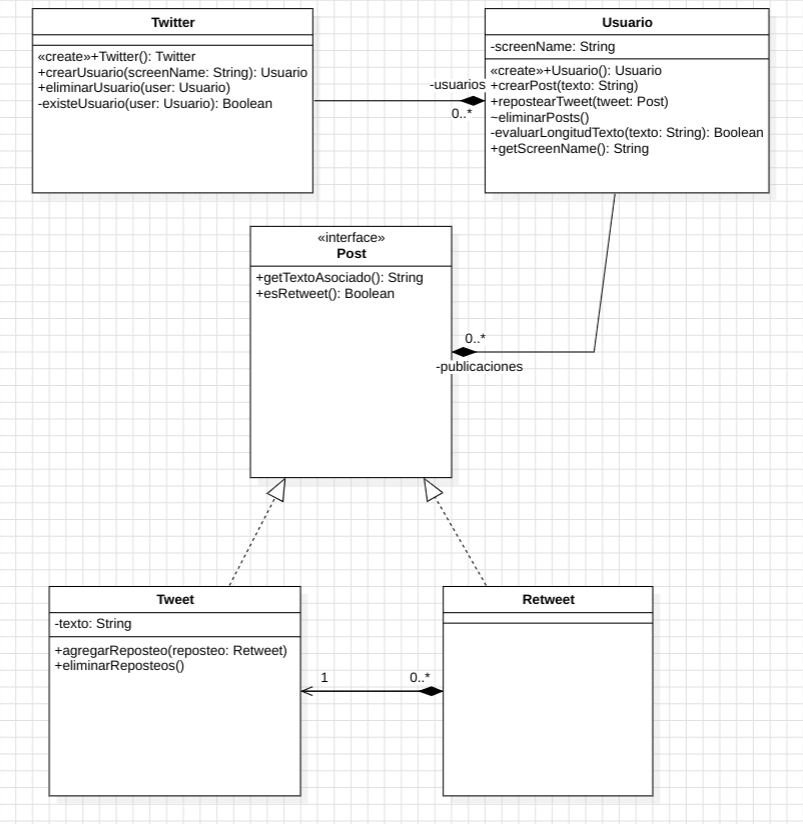
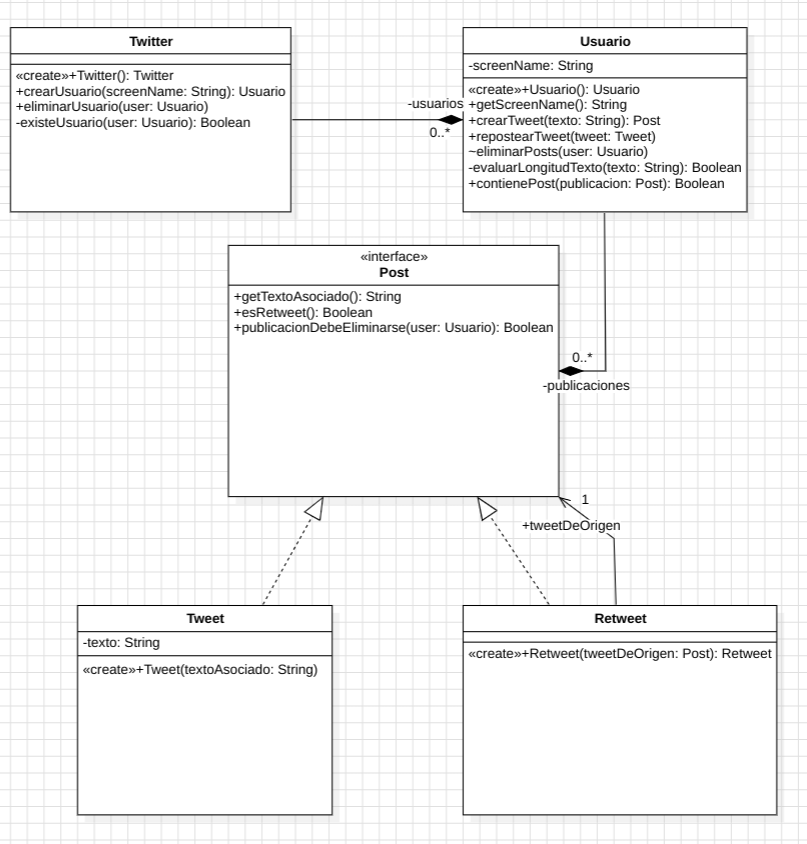
Cambios en ejercicio 1

diff --git a/ejercicio1/src/main/java/io/github/Usuario.java b/ejercicio1/src/main/java/io/github/Usuario.java
@@ -32,13 +32,17 @@ public class Usuario {
     public void repostearTweet(Tweet tweet) {
         Retweet retweet = new Retweet(tweet);
         this.publicaciones.add(retweet);
-        tweet.agregarReposteo(retweet);
     }
 
-    void eliminarPosts() {
-        this.publicaciones.stream()
-                .filter(p -> !p.esRetweet())
-                .forEach(t -> ((Tweet) t).eliminarReposteos()); // Downcasting seguro por booleano
-        this.publicaciones.clear();
+    public boolean contienePost(Post publicacion) {
+        return this.publicaciones.contains(publicacion);
+    }
+
+    void eliminarPosts(Usuario user) {
+        for(Post publicacion: this.publicaciones) {
+            if(publicacion.publicacionDebeEliminarse(user)) {
+                this.publicaciones.remove(publicacion);
+            }
+        }
     }
 }

diff --git a/ejercicio1/src/main/java/io/github/Tweet.java b/ejercicio1/src/main/java/io/github/Tweet.java
@@ -4,7 +4,6 @@ import java.util.List;
 
 public class Tweet implements Post{
     private String textoAsociado;
-    private List<Retweet> retweetsAlPosteo;
 
     public Tweet(String textoAsociado) {
         this.textoAsociado = textoAsociado;
@@ -20,12 +19,9 @@ public class Tweet implements Post{
         return false;
     }
 
-    public void agregarReposteo(Retweet reposteo) {
-        this.retweetsAlPosteo.add(reposteo);
-    }
-
-    public void eliminarReposteos() {
-        this.retweetsAlPosteo.clear();
+    @Override
+    public boolean publicacionDebeEliminarse(Usuario user) {
+        return user.contienePost(this);
     }
 
 }

diff --git a/ejercicio1/src/main/java/io/github/Retweet.java b/ejercicio1/src/main/java/io/github/Retweet.java
@@ -17,4 +17,14 @@ public class Retweet implements Post{
         return true;
     }
 
+    @Override
+    public boolean publicacionDebeEliminarse(Usuario user) {
+        if(this.esRetweet()) {
+            return this.tweetDeOrigen.publicacionDebeEliminarse(user);
+        } else {
+            return user.contienePost(this);
+        }
+
+    }
+
 }

diff --git a/ejercicio1/src/main/java/io/github/Twitter.java b/ejercicio1/src/main/java/io/github/Twitter.java
@@ -22,7 +22,7 @@ public class Twitter {
 
     public void eliminarUsuario(Usuario user) {
         if(user != null && this.existeUsuario(user)) {
-            user.eliminarPosts();
+            this.usuarios.stream().forEach(u -> u.eliminarPosts(user));
             this.usuarios.remove(user);
         }
     }

diff --git a/ejercicio1/src/main/java/io/github/Post.java b/ejercicio1/src/main/java/io/github/Post.java
@@ -1,6 +1,7 @@
 package io.github;
 
 public interface Post {
-    public String getTextoAsociado();
-    public boolean esRetweet();
+    String getTextoAsociado();
+    boolean esRetweet();
+    boolean publicacionDebeEliminarse(Usuario user);
 }
